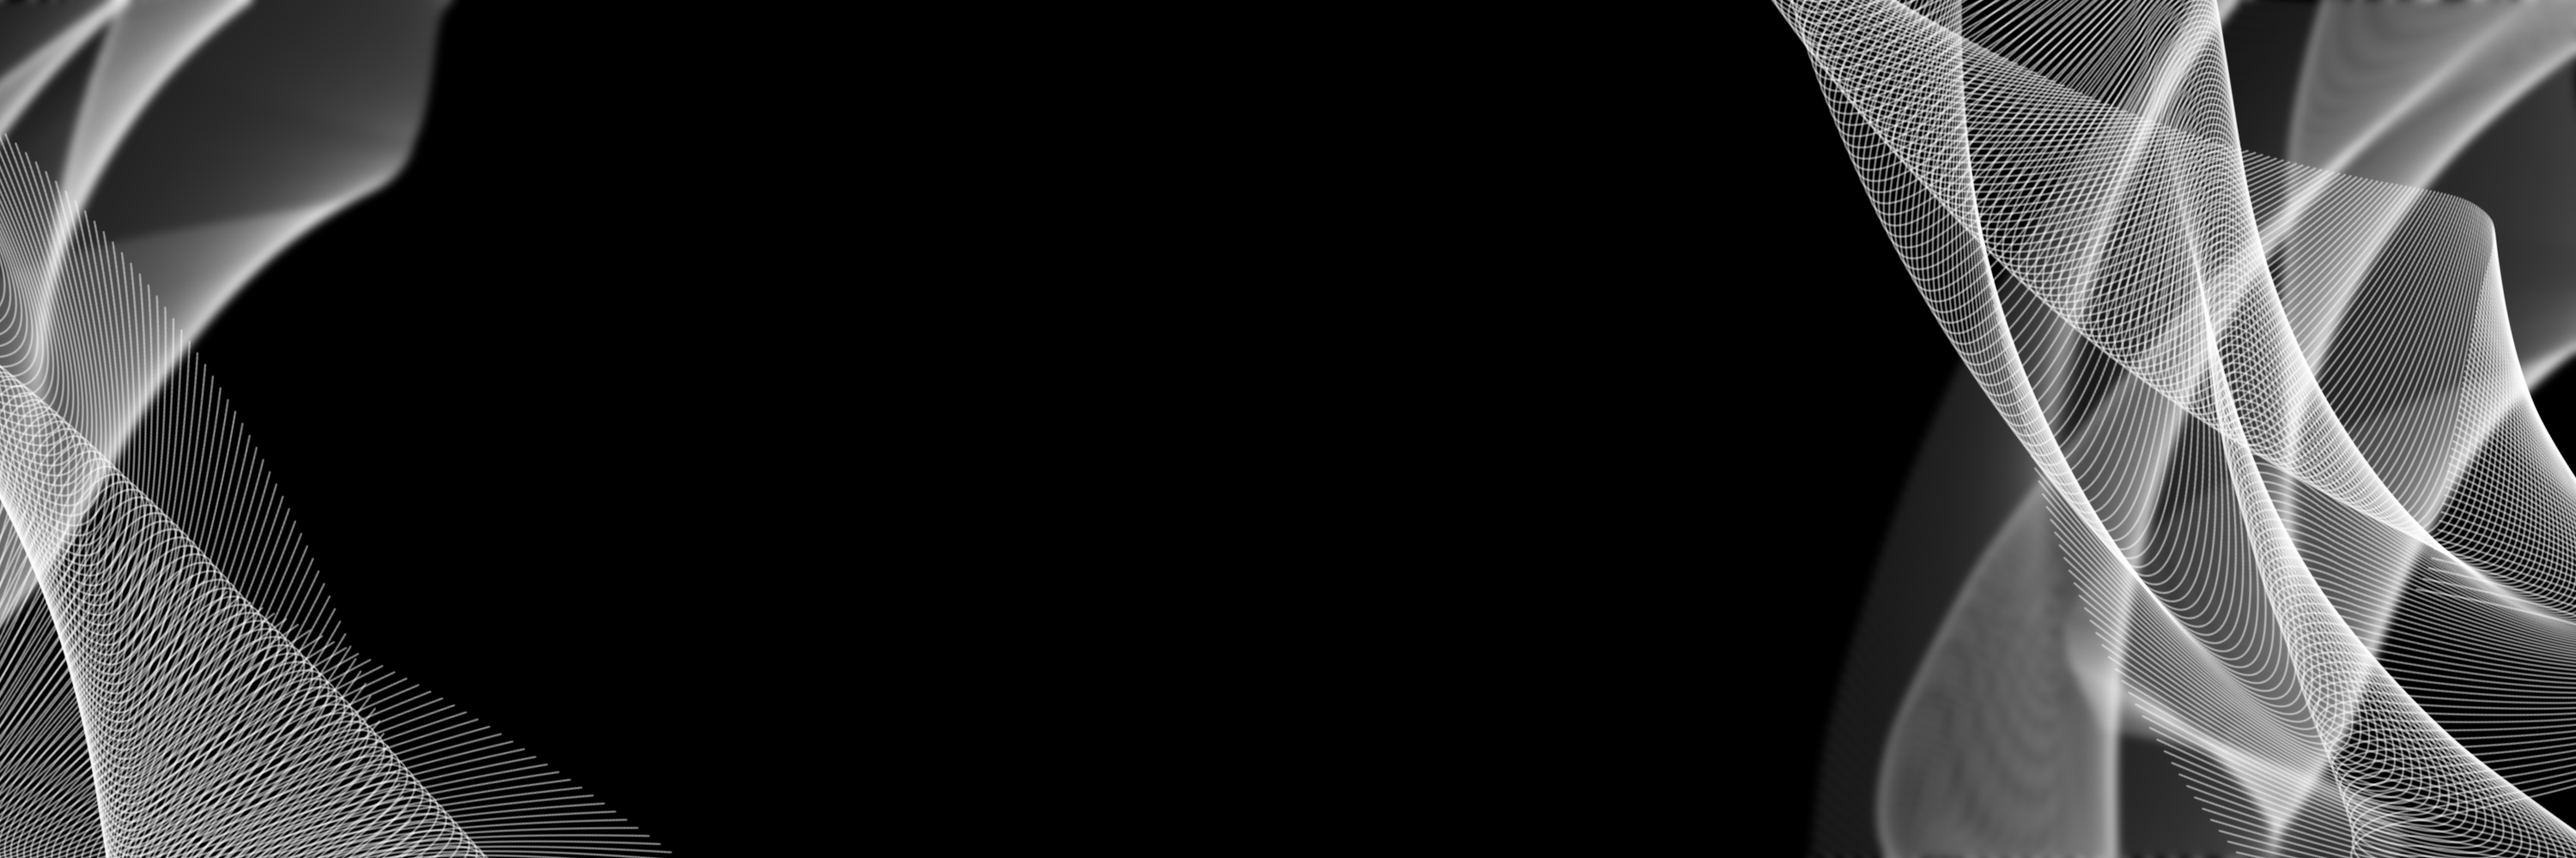
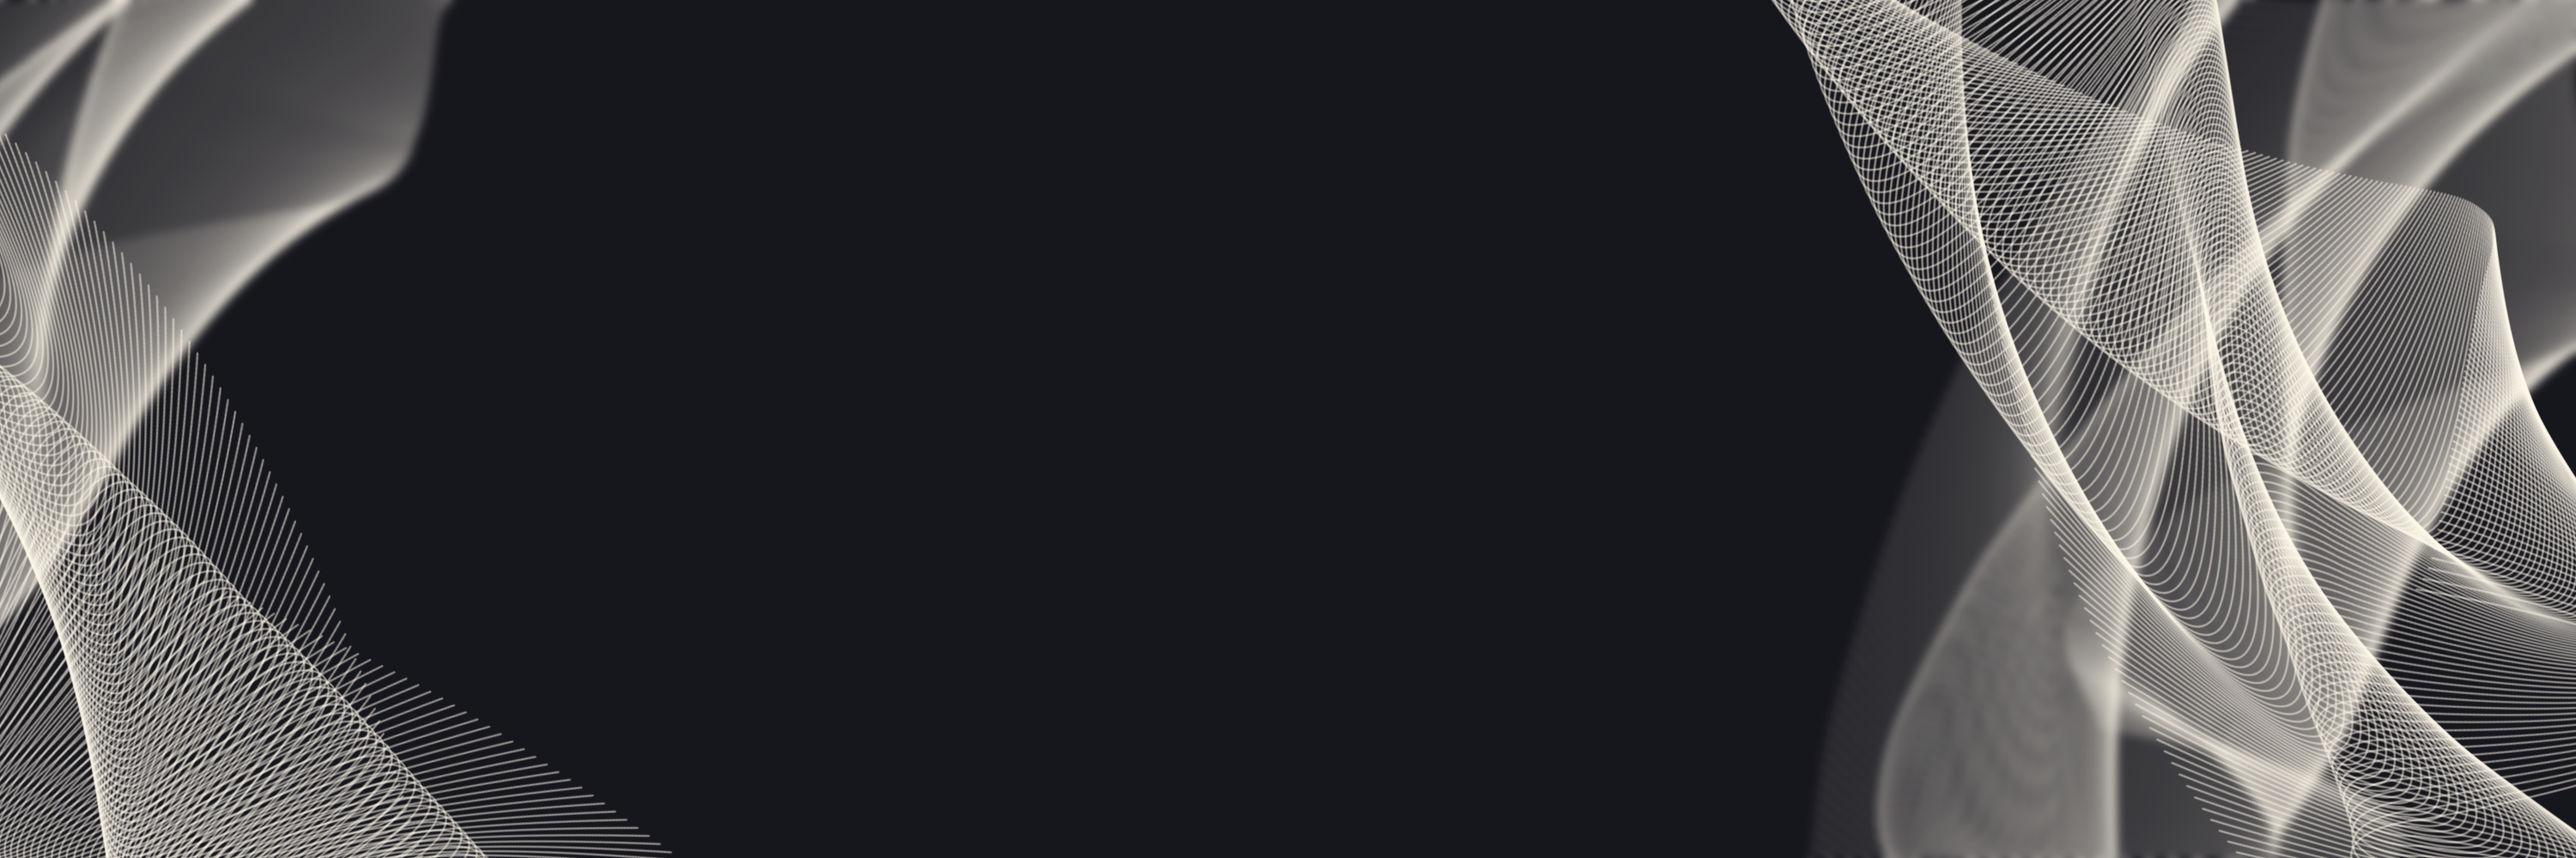
color tweaks

diff --git a/index.html b/index.html
@@ -20,15 +20,15 @@
       }
 
       ::selection {
-        color: rgb(255, 255, 255);
-        background: rgb(0, 0, 0);
+        color: rgb(255, 248, 231);
+        background: rgb(22, 22, 29);
       }
 
       body {
         font-family: "Frank Ruhl Libre", serif;
         line-height: 1.6;
-        background-color: #f9f9f9;
-        color: #333;
+        background-color: #FFF8E7;
+        color: #16161d;
       }
 
       /* Main Container */
@@ -58,7 +58,7 @@
         font-size: 48px;
         font-weight: 700;
         margin-bottom: 1.5rem;
-        color: #000;
+        color: #16161d;
         text-align: left;
         opacity: 0;
         animation: fadeInUp 1s ease 0.4s forwards;
@@ -197,7 +197,7 @@
         font-family: "Frank Ruhl Libre", serif;
         font-size: 77px;
         font-weight: 700;
-        color: #000;
+        color: #16161d;
         text-decoration: none;
         position: relative;
         display: inline-block;
@@ -211,7 +211,7 @@
         left: 0;
         bottom: 0;
         width: 0;
-        background: #000;
+        background: #16161d;
         transition: width 1s ease;
       }
 
@@ -265,7 +265,7 @@
 
       /* Text color changes for expanded state */
       .skill-item.expanded .skill-link {
-        color: #000;
+        color: #16161d;
         position: relative;
         z-index: 3;
       }
@@ -273,7 +273,7 @@
       .skill-description {
         font-family: "Fustat", sans-serif;
         font-size: 18px;
-        color: #fff;
+        color: #FFF8E7;
         line-height: 1.8;
         margin-bottom: 2rem;
         max-width: 80%;
@@ -281,7 +281,7 @@
       }
 
       .skill-item.expanded .skill-description {
-        color: #fff;
+        color: #FFF8E7;
       }
 
       .projects-list {
@@ -304,7 +304,7 @@
         font-family: "Frank Ruhl Libre", serif;
         font-size: 28px;
         font-weight: 700;
-        color: #fff;
+        color: #FFF8E7;
         margin-bottom: 0.5rem;
         transition: color 0.3s ease;
       }
@@ -323,12 +323,12 @@
         left: 0;
         bottom: 0;
         width: 0;
-        background: #fff; /* matches .skill-link underline color */
+        background: #FFF8E7; /* matches .skill-link underline color */
         transition: width 1s ease;
       }
 
       .skill-item.expanded .project-title a::after {
-        background: #fff;
+        background: #FFF8E7;
       }
 
       .project-title a:hover::after {
@@ -336,13 +336,13 @@
       }
 
       .skill-item.expanded .project-title {
-        color: #fff;
+        color: #FFF8E7;
       }
 
       .project-description {
         font-family: "Fustat", sans-serif;
         font-size: 16px;
-        color: #fff;
+        color: #FFF8E7;
         opacity: 69%;
         line-height: 1.6;
         margin-bottom: 0.5rem;
@@ -350,7 +350,7 @@
       }
 
       .skill-item.expanded .project-description {
-        color: #fff;
+        color: #FFF8E7;
         opacity: 69%;
       }
 
@@ -358,13 +358,13 @@
         font-family: "Fustat", sans-serif;
         font-size: 12px;
         font-weight: 600;
-        color: #fff;
+        color: #FFF8E7;
         text-transform: uppercase;
         letter-spacing: 1px;
       }
 
       .skill-item.expanded .project-tech {
-        color: #fff;
+        color: #FFF8E7;
       }
 
       /* About Section - Same improvements */
@@ -388,7 +388,7 @@
         font-family: "Frank Ruhl Libre", serif;
         font-size: 77px;
         font-weight: 700;
-        color: #000;
+        color: #16161d;
         position: relative;
       }
 
@@ -399,7 +399,7 @@
         left: 0;
         bottom: 0;
         width: 0;
-        background: #000;
+        background: #16161d;
         transition: width 1s ease;
       }
 
@@ -417,7 +417,7 @@
         background-size: cover; /* Makes image cover the entire section */
         background-position: center; /* Centers the image */
         background-repeat: no-repeat; /* Prevents tiling */
-        background-color: #000; /* Optional fallback */
+        background-color: #16161d; /* Optional fallback */
         width: 100vw;
         position: relative;
         left: 50%;
@@ -455,12 +455,12 @@
         line-height: 1.8;
         margin-bottom: 2rem;
         max-width: 80%;
-        color: #fff;
+        color: #FFF8E7;
         transition: color 0.3s ease;
       }
 
       .about-section.expanded .about-text {
-        color: #fff;
+        color: #FFF8E7;
       }
 
       .skills-text {
@@ -478,13 +478,13 @@
         font-size: 16px;
         font-weight: 600;
         line-height: 1.8;
-        color: #fff;
+        color: #FFF8E7;
         margin-left: 2rem;
         transition: color 0.3s ease;
       }
 
       .about-section.expanded .skills-list-text {
-        color: #fff;
+        color: #FFF8E7;
       }
 
       /* Contact Section */
@@ -498,7 +498,7 @@
       .contact-title {
         font-size: 48px;
         margin-bottom: 2rem;
-        color: #000;
+        color: #16161d;
       }
 
       .contact-info {
